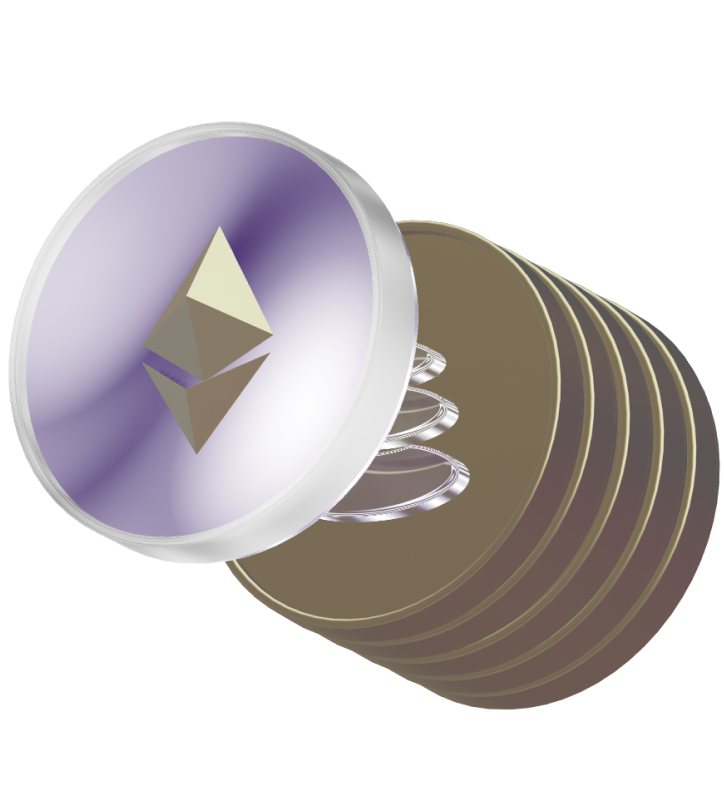
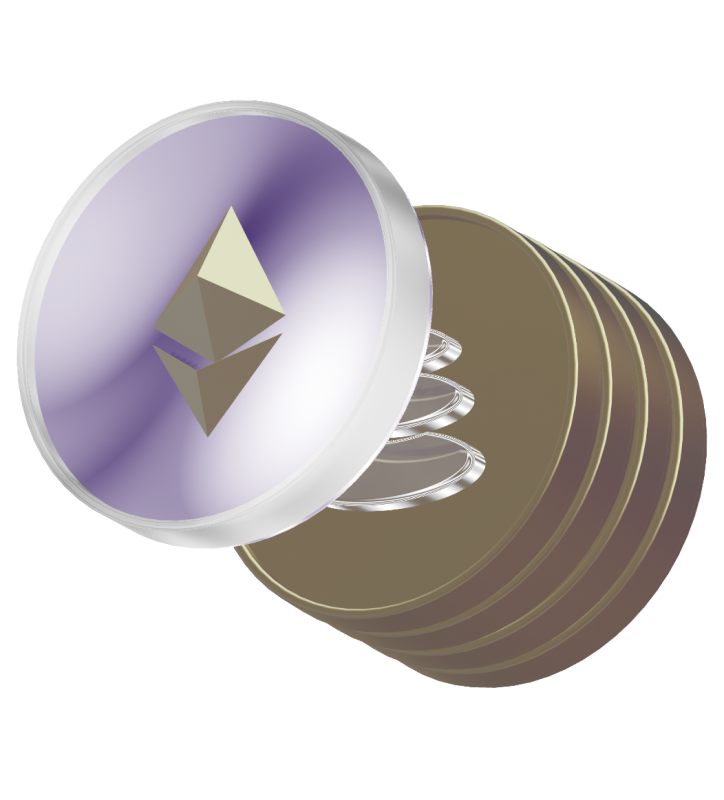
Hotfix/fix hero (#1608)
* Fix hero image

* 1.46.7

* Add BalImage component

* Use BalImage

diff --git a/src/components/contextual/pages/vebal/Hero.vue b/src/components/contextual/pages/vebal/Hero.vue
@@ -78,11 +78,11 @@ function navigateToGetVeBAL() {
       <div class="py-8 px-4 lg:pl-8">
         <div class="coins flex">
           <div class="coin group">
-            <img
+            <BalImage
               class="graphic"
               width="724"
               height="800"
-              src="@/assets/images/coins-1.png"
+              :src="require('@/assets/images/coins-1.png')"
               alt=""
             />
             <div class="caption">
@@ -93,11 +93,11 @@ function navigateToGetVeBAL() {
             </div>
           </div>
           <div class="coin group">
-            <img
+            <BalImage
               class="graphic"
               width="696"
               height="800"
-              src="@/assets/images/coins-2.png"
+              :src="require('@/assets/images/coins-2.png')"
               alt=""
             />
             <div class="caption">
@@ -108,11 +108,11 @@ function navigateToGetVeBAL() {
             </div>
           </div>
           <div class="coin group">
-            <img
+            <BalImage
               class="graphic"
               width="696"
               height="800"
-              src="@/assets/images/coins-3.png"
+              :src="require('@/assets/images/coins-3.png')"
               alt=""
             />
             <div class="caption">
@@ -158,7 +158,7 @@ function navigateToGetVeBAL() {
 
 @media (min-width: 768px) {
   .hero-text {
-    min-width: 380px;
+    min-width: 400px;
   }
 }
 </style>

diff --git a/src/components/_global/BalImage/BalImage.vue b/src/components/_global/BalImage/BalImage.vue
@@ -1,0 +1,62 @@
+<script lang="ts" setup>
+import { computed, ref, useAttrs } from 'vue';
+
+/**
+ * TYPES
+ */
+type Props = {
+  noFade?: boolean;
+};
+
+/**
+ * PROPS & EMITS
+ */
+const props = withDefaults(defineProps<Props>(), {
+  noFade: false
+});
+
+/**
+ * STATE
+ */
+const loaded = ref(props.noFade);
+
+/**
+ * COMPOSABLES
+ */
+const attrs = useAttrs();
+
+/**
+ * COMPUTED
+ */
+const wrapperStyles = computed(() => ({
+  width: attrs?.width || 'auto',
+  height: attrs?.height || 'auto'
+}));
+
+/**
+ * METHODS
+ */
+function onLoaded() {
+  loaded.value = true;
+}
+</script>
+
+<template>
+  <div class="bal-image-wrapper" :style="wrapperStyles">
+    <Transition name="bal-image-fade">
+      <img v-bind="$attrs" @load="onLoaded" v-show="loaded" />
+    </Transition>
+  </div>
+</template>
+
+<style scoped>
+/* Image fade animation */
+.bal-image-fade-enter-active,
+.bal-image-fade-leave-active {
+  transition: all 0.3s ease-in-out;
+}
+.bal-image-fade-enter-from,
+.bal-image-fade-leave-to {
+  opacity: 0;
+}
+</style>
